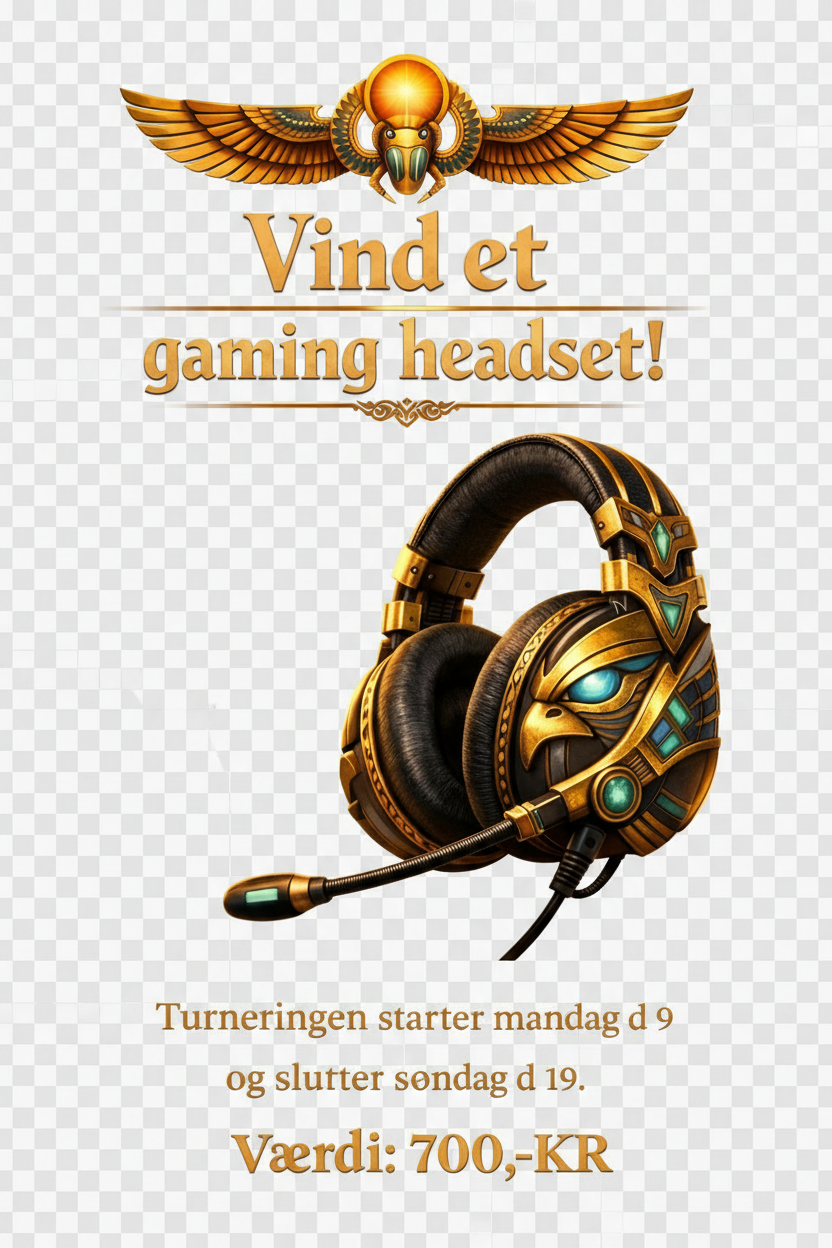
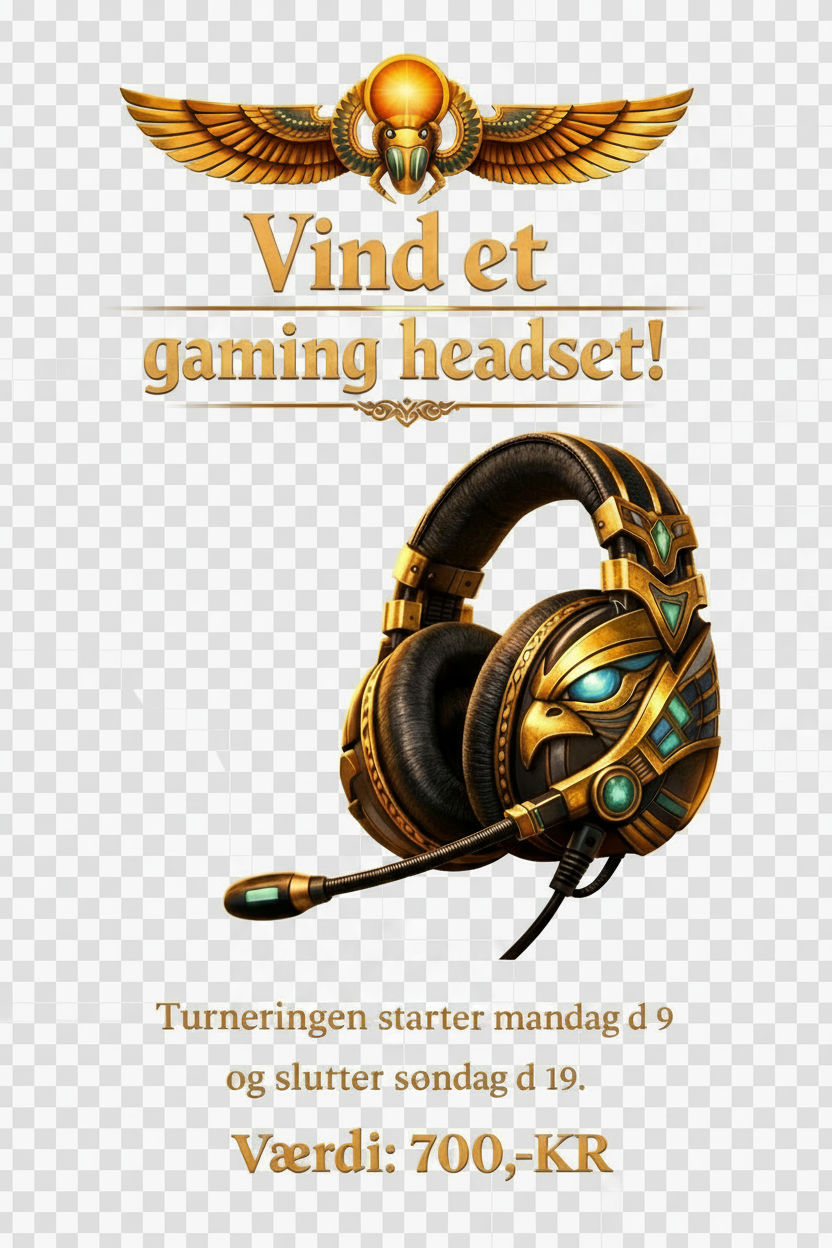
Changes

diff --git a/src/components/slots/GiveawayBanner.tsx b/src/components/slots/GiveawayBanner.tsx
@@ -1,30 +1,13 @@
 import giveawayBannerImage from "@/assets/slots/giveaway-banner.png";
 
-interface GiveawayBannerProps {
-  backgroundImage: string;
-}
-
-export function GiveawayBanner({ backgroundImage }: GiveawayBannerProps) {
+export function GiveawayBanner() {
   return (
-    <div 
-      className="block relative w-full overflow-hidden rounded-xl border border-amber-500/30"
-      style={{
-        backgroundImage: `url(${backgroundImage})`,
-        backgroundSize: 'cover',
-        backgroundPosition: 'center',
-      }}
-    >
-      {/* Dark overlay for consistency */}
-      <div className="absolute inset-0 bg-gradient-to-b from-background/60 via-background/50 to-background/70" />
-      
-      {/* Giveaway image centered */}
-      <div className="relative z-10 p-4 flex items-center justify-center min-h-[280px]">
-        <img 
-          src={giveawayBannerImage} 
-          alt="Giveaway" 
-          className="w-full h-auto max-h-[250px] object-contain drop-shadow-[0_0_20px_rgba(251,191,36,0.5)]"
-        />
-      </div>
+    <div className="block relative w-full overflow-hidden rounded-xl border border-amber-500/30">
+      <img 
+        src={giveawayBannerImage} 
+        alt="Giveaway" 
+        className="w-full h-auto object-cover"
+      />
     </div>
   );
 }

diff --git a/src/components/slots/SlotPromoSlider.tsx b/src/components/slots/SlotPromoSlider.tsx
@@ -38,7 +38,7 @@ export function SlotPromoSlider({ casino, backgroundImage }: SlotPromoSliderProp
           
           {/* Slide 2: Giveaway Banner */}
           <div className="w-full flex-shrink-0">
-            <GiveawayBanner backgroundImage={backgroundImage} />
+            <GiveawayBanner />
           </div>
         </div>
       </div>
